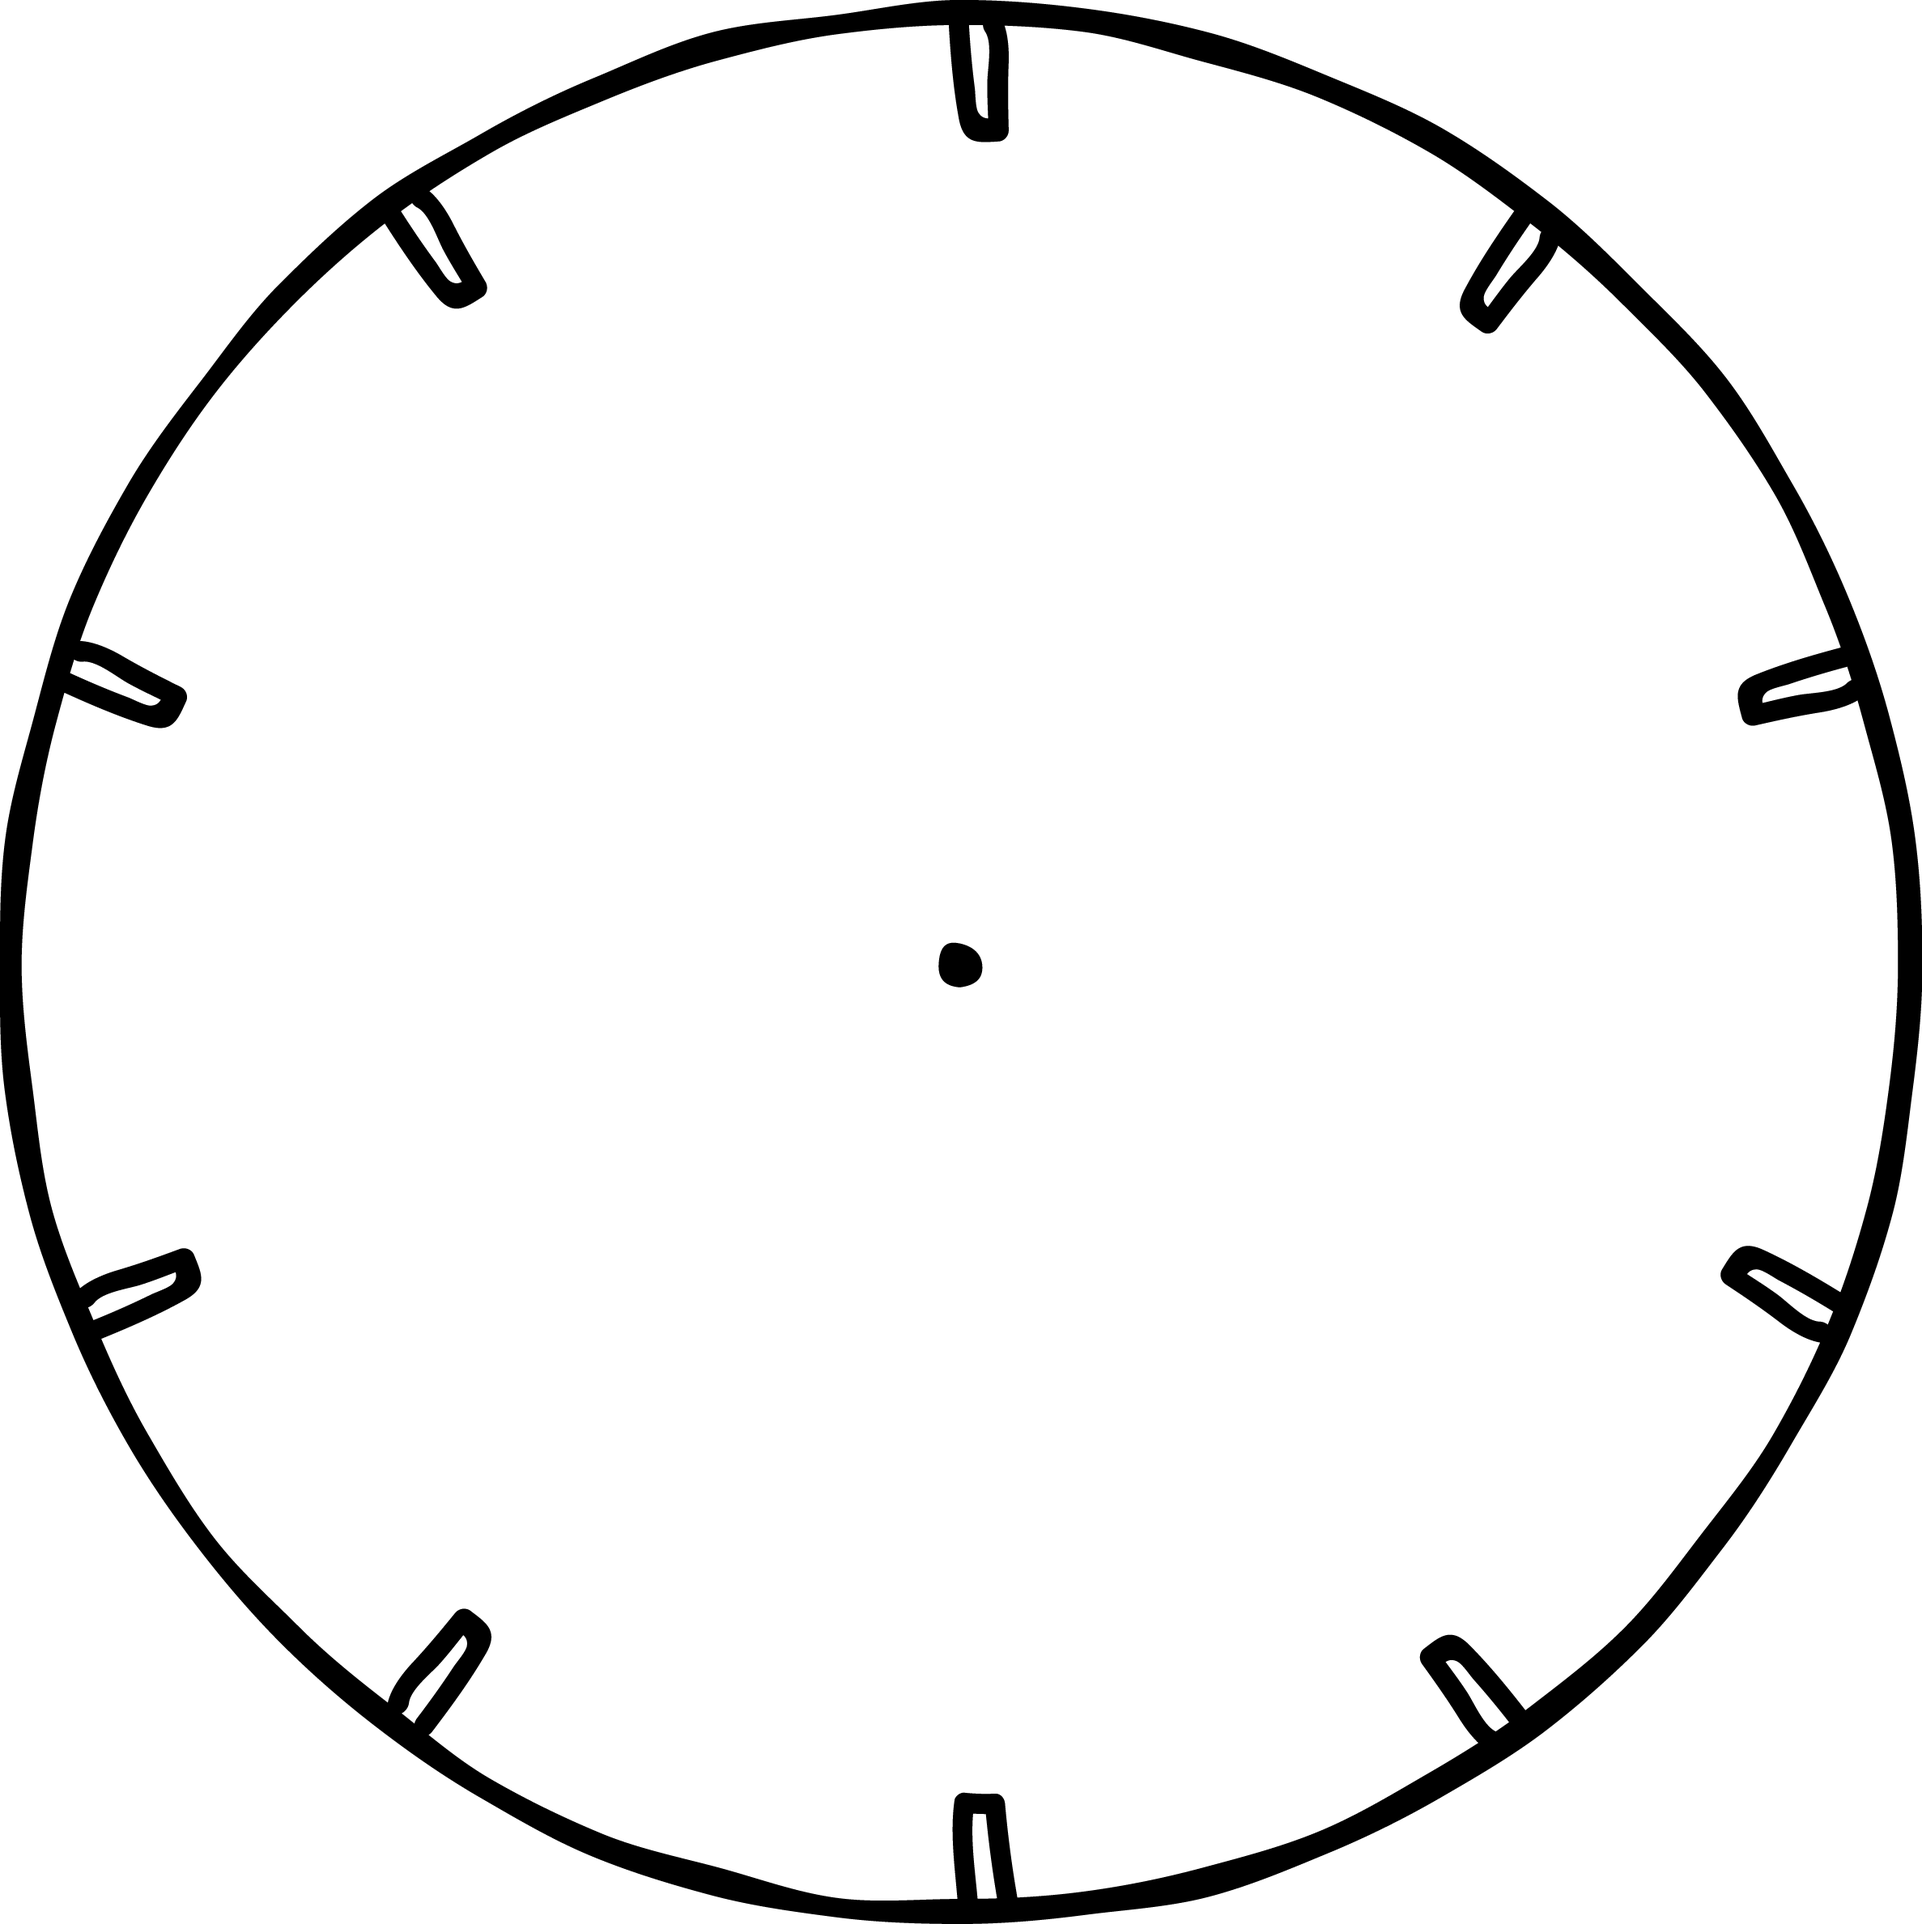
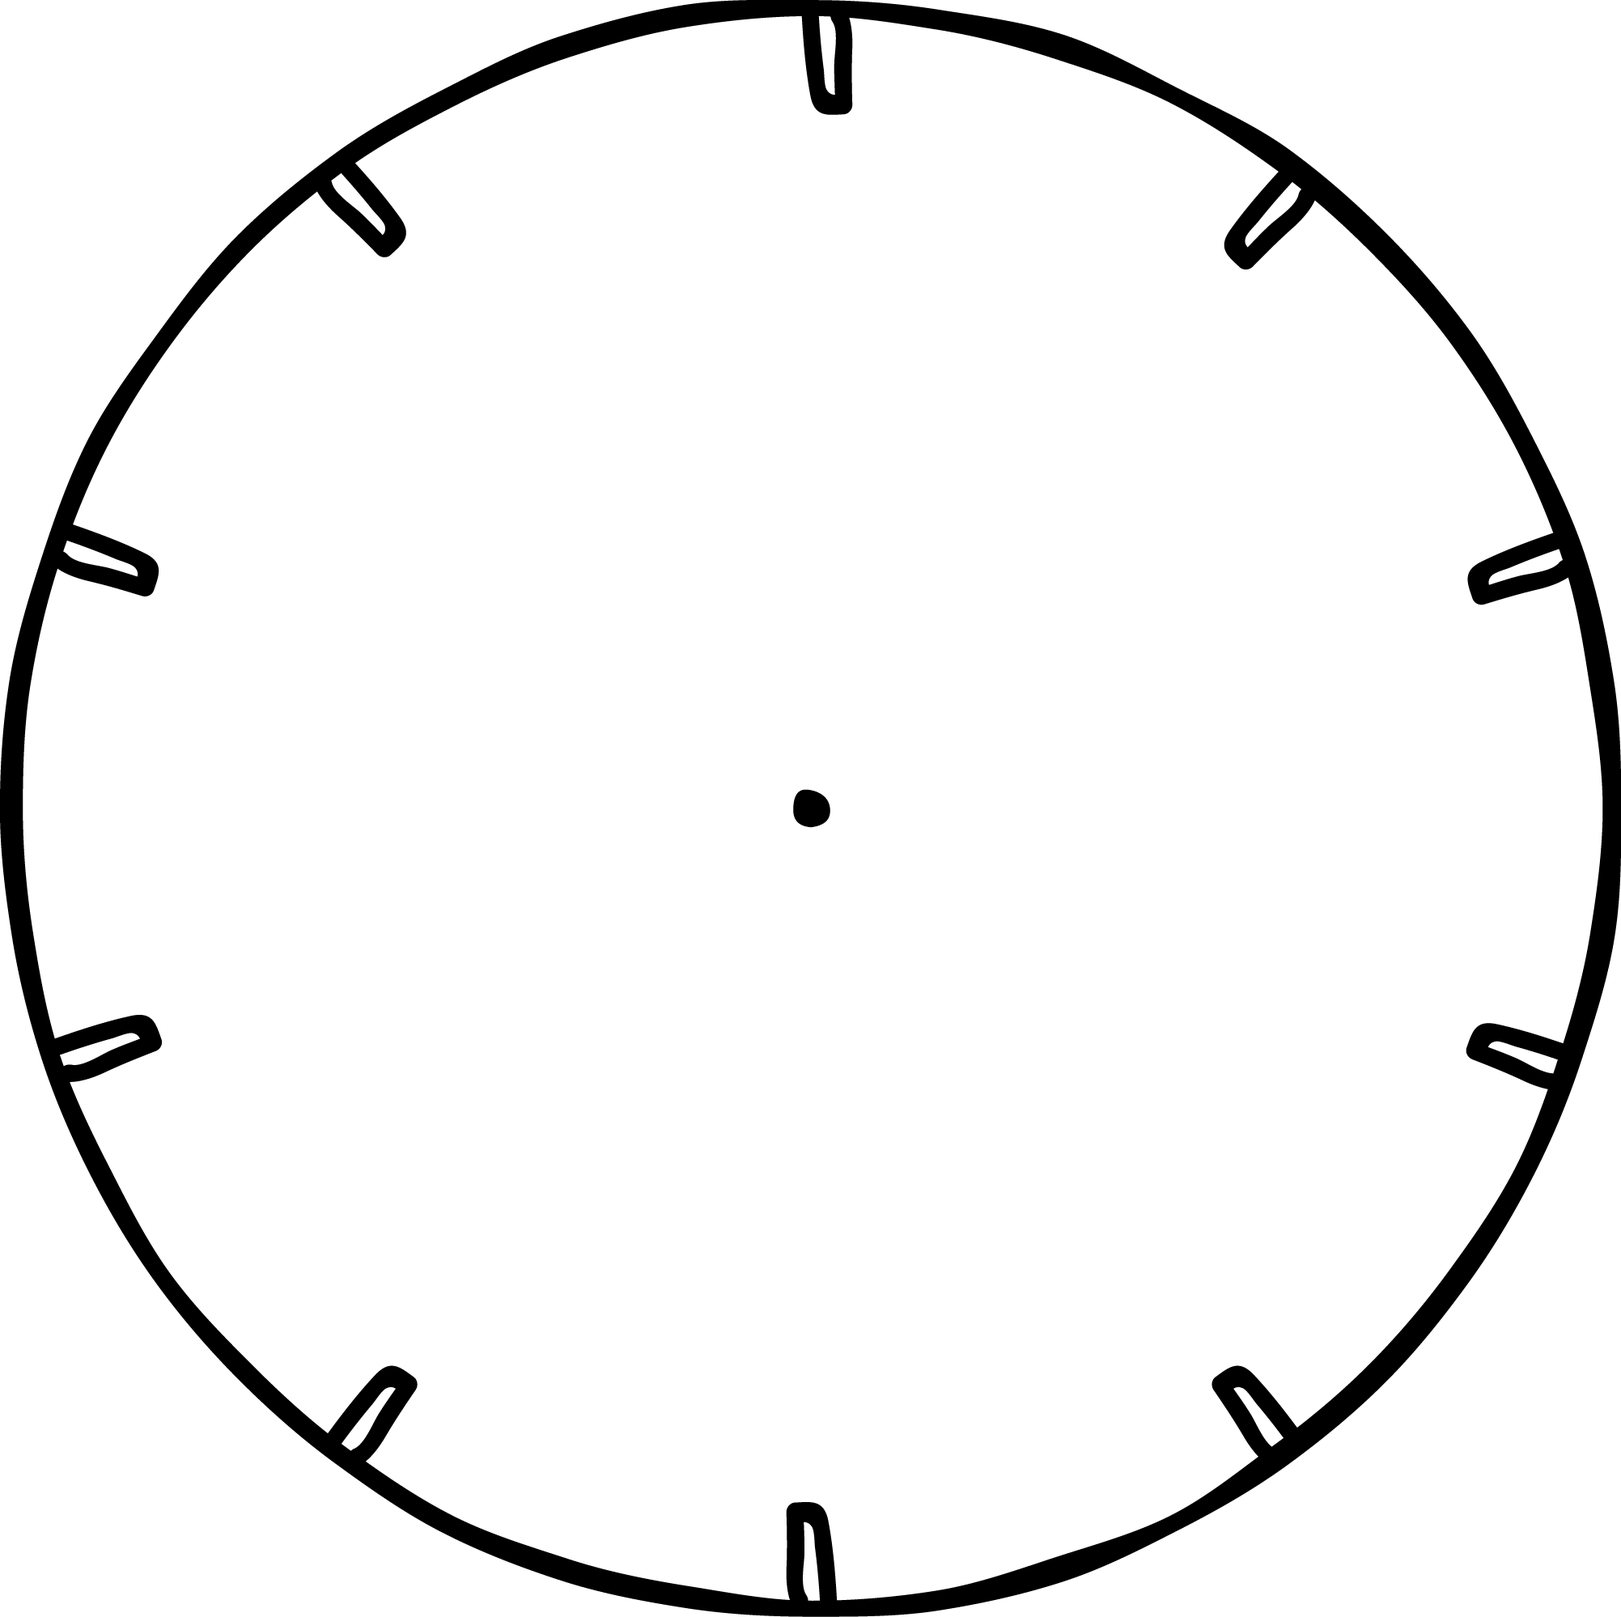
mod2 and mod10 clocks now both same size

diff --git a/csunplugged/resources/views/modulo_clock.py b/csunplugged/resources/views/modulo_clock.py
@@ -24,23 +24,16 @@ def resource_image(request, resource):
     image = Image.open(image_path)
     draw = ImageDraw.Draw(image)
 
-    font_size = 200
+    font_size = 150
     font_path = "static/fonts/PatrickHand-Regular.ttf"
     font = ImageFont.truetype(font_path, font_size)
 
     x_offset = 75
-    y_offset = 275
-    radius = 900
+    y_offset = 225
+    radius = 750
     x_center = (image.width - x_offset)/2
     y_center = (image.height - y_offset)/2
     start_angle = (2 * pi) / modulo_number
-
-    draw.text(
-        (x_center, y_center),
-        text="cats",
-        font=font,
-        fill="#000"
-    )
 
     for num in range(0, modulo_number):
 
